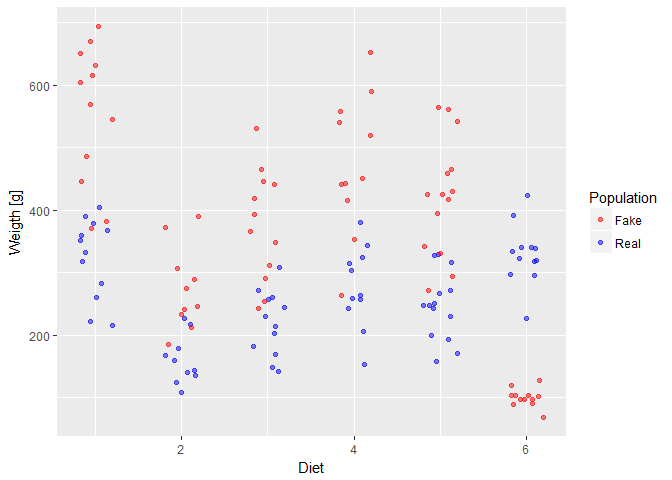
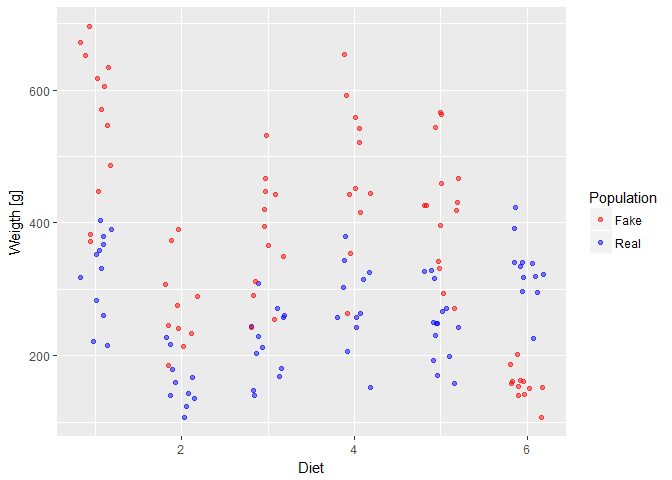
Minor correction in the visualization tutorial.

diff --git a/Visualization/data_visualization.md b/Visualization/data_visualization.md
@@ -91,7 +91,7 @@ for (level in medianLabels) {
 chickenViolinPlot <- ggplot()
 chickenViolinPlot <- chickenViolinPlot + geom_violin(aes(x=chickenDataset$feed, y=chickenDataset$weight), width = 0.6, alpha = 0.5)
 chickenViolinPlot <- chickenViolinPlot + geom_jitter(aes(x=chickenDataset$feed, y=chickenDataset$weight), width = 0.2, alpha = 0.5)
-chickenViolinPlot <- chickenViolinPlot + geom_line(aes(x=medianLabels, y=medianValues, group=medianGroups), alpha = 0.5)
+chickenViolinPlot <- chickenViolinPlot + geom_line(aes(x=medianLabels, y=medianValues, group=medianGroups), linetype = "dashed" , alpha = 0.5)
 chickenViolinPlot <- chickenViolinPlot + labs(x = "Diet", y = "Weigth [g]")
 plot(chickenViolinPlot)
 ```
@@ -112,7 +112,7 @@ newPopulation <- c(populationReal, populationFake)
 newDiet <- c(chickenDataset$feed, chickenDataset$feed)
 
 # 3. We create the fake weight and append it to the original weight
-fakeWeight <- ifelse(chickenDataset$feed == "sunflower",  runif(1, 0.3, 0.7) * chickenDataset$weight, runif(1, 1.7, 1.9) * chickenDataset$weight)
+fakeWeight <- ifelse(chickenDataset$feed == "sunflower",  runif(1, 0.3, 0.6) * chickenDataset$weight, runif(1, 1.7, 1.9) * chickenDataset$weight)
 newWeight <- c(chickenDataset$weight, fakeWeight)
 
 # 5. We create a data frame for the fake population
@@ -173,7 +173,7 @@ chickenViolinPlot2 <- ggplot()
 chickenViolinPlot2 <- chickenViolinPlot2 + geom_violin(aes(x=chickenDataset$feed, y=chickenDataset$weight), col = "darkblue", width = 0.6, alpha = 0.5)
 chickenViolinPlot2 <- chickenViolinPlot2 + geom_violin(aes(x=fakeDataset$feed, y=fakeDataset$weight), col = "darkred", width = 0.6, alpha = 0.5)
 chickenViolinPlot2 <- chickenViolinPlot2 + geom_jitter(aes(x=chickenDataset2$feed, y=chickenDataset2$weight, col = chickenDataset2$population), width = 0.2, alpha = 0.5)
-chickenViolinPlot2 <- chickenViolinPlot2 + geom_line(aes(x=medianLabels, y=medianValues, group=medianGroups, col = medianGroups), alpha = 0.5)
+chickenViolinPlot2 <- chickenViolinPlot2 + geom_line(aes(x=medianLabels, y=medianValues, group=medianGroups, col = medianGroups), alpha = 0.5, linetype = "dashed")
 chickenViolinPlot2 <- chickenViolinPlot2 + labs(x = "Diet", y = "Weigth [g]", col = "Population")
 chickenViolinPlot2 <- chickenViolinPlot2 + scale_colour_manual(values = c(colorFake, colorTrue))
 plot(chickenViolinPlot2)
